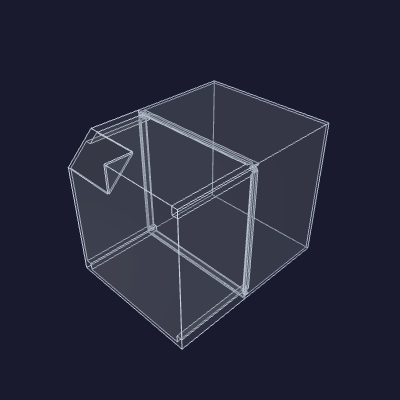
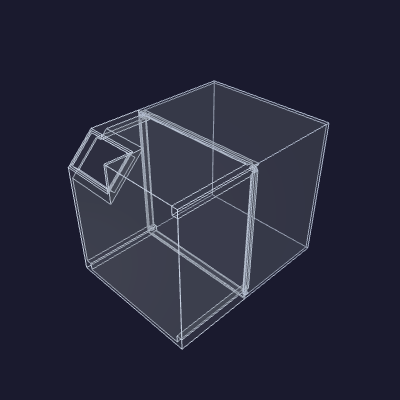
enclosure: cut the display into the facet; seat the display in the assembly
Turn the 45° display facet into a real housing for the Waveshare 4.3B:

- Facet wall grown from one wall to 18 mm (the display's overall depth): the
  cavity is held that far back behind the facet plane instead of one wall.
- Bezel counterbore on the user face: 112.5 x 75 x 1 mm shallow recess (the
  bezel sits flush; the 1 mm ledge = 112.5x75 minus the 106x69 PCB hole).
- PCB body through-hole: 106 x 69 down the full facet thickness, which also
  clears the corner-rib material sitting behind the facet in its path.

The facet's outer 45° surface is unchanged (still 118.5 x 81). Single solid
each half, front ∩ back = 0, both fit the bed.

Assembly: the display reference STEP is seated in the housing — rotated -45°
about X so its -Y screen faces the facet normal, then its screen-face center
(the STEP origin) moved onto the facet center. Per request, contents are left
as-is; the display may overlap a rib / packed parts (deliberate, to be resolved
later).

Changed region(s): [[0.18, 0.3, 0.36, 0.51]]

diff --git a/hardware/printed-parts/enclosure/enclosure/enclosure.py b/hardware/printed-parts/enclosure/enclosure/enclosure.py
@@ -61,6 +61,13 @@ display_facet_buffer = 3.0
 display_facet_x = display_bezel_x + 2 * display_facet_buffer          # [118.5 mm](DISPLAY_FACET_X)
 display_facet_slope = display_bezel_slope + 2 * display_facet_buffer  # [81 mm](DISPLAY_FACET_SLOPE)
 display_facet_angle_deg = 45.0
+# The facet is a display housing this deep (the wall behind it, set to the
+# display's overall depth) with the display let into it: a shallow bezel
+# counterbore on the user face and a PCB through-hole down the full thickness.
+display_facet_thickness = 18.0   # facet wall depth = display envelope depth
+display_bezel_depth = 1.0        # bezel counterbore depth, user face
+display_pcb_x = 106.0            # PCB body through-hole, lateral (X)
+display_pcb_slope = 69.0         # PCB body through-hole, up the 45° slope
 
 # Split + boss parameters — every dimension sized to its function, nothing
 # inherited from the faucet. The seam is a Y plane; the front half's full-wall
@@ -170,13 +177,35 @@ def _shell_with_facet(inner, outer):
     inner_box = _ybox(ix0, ix1, iy0, iy1, iz0, iz1)
     outer_chamfered = _ybox(ox0, ox1, oy0, oy1, oz0, oz1).cut(_facet_wedge(outer))
 
-    back_origin = (origin[0] - wall * normal[0],
-                   origin[1] - wall * normal[1],
-                   origin[2] - wall * normal[2])
+    back_origin = (origin[0] - display_facet_thickness * normal[0],
+                   origin[1] - display_facet_thickness * normal[1],
+                   origin[2] - display_facet_thickness * normal[2])
     keepout = _halfspace(back_origin, normal, extent).intersect(_facet_x_slab(outer, extent))
     inner_clipped = inner_box.cut(keepout)
 
     return cq.Workplane(obj=outer_chamfered.cut(inner_clipped))
+
+
+def _display_cuts(outer):
+    """The display let into the facet: a shallow bezel counterbore on the user
+    face and a PCB through-hole down the full facet thickness — both rectangles
+    centered on the facet, cut along its 45° normal. (Starts one mm proud of the
+    face for a clean break; the PCB hole runs a hair past the back into the
+    cavity.)"""
+    a, normal, origin, dy, dz = _facet_geom(outer)
+    center = (outer[0] + display_facet_x / 2.0, origin[1], origin[2])
+    plane = cq.Plane(origin=cq.Vector(*center), xDir=cq.Vector(1, 0, 0), normal=cq.Vector(*normal))
+    bezel = (
+        cq.Workplane(plane).workplane(offset=1.0)
+        .rect(display_bezel_x, display_bezel_slope)
+        .extrude(-(display_bezel_depth + 1.0)).val()
+    )
+    pcb = (
+        cq.Workplane(plane).workplane(offset=1.0)
+        .rect(display_pcb_x, display_pcb_slope)
+        .extrude(-(display_facet_thickness + 2.0)).val()
+    )
+    return bezel.fuse(pcb)
 
 
 # --- split joint: telescoping lip + X-axis corner cross-pins ----------------
@@ -317,6 +346,9 @@ def build_front_half():
         front = front.fuse(_front_pod(x_in, x_ext, sx, z_boss, sz, y_joint, inner))
     # The full-depth pods can poke into the display facet; trim them to its plane.
     front = front.cut(_facet_wedge(outer))
+    # Let the display into the facet (bezel counterbore + PCB through-hole); this
+    # also clears whatever rib/wall material sits behind the facet in its path.
+    front = front.cut(_display_cuts(outer))
     for x_in, x_ext, sx, z_boss, _sz in _bosses(inner):
         front = front.cut(_front_cuts(x_in, x_ext, sx, z_boss, yb, y_joint))
     return cq.Workplane(obj=front)

diff --git a/hardware/printed-parts/enclosure/enclosure-assembly/enclosure_assembly.py b/hardware/printed-parts/enclosure/enclosure-assembly/enclosure_assembly.py
@@ -21,10 +21,26 @@ from docgen import substitute_py_comments
 import _contents as contents
 
 _ENCLOSURE_DIR = _repo / "hardware" / "printed-parts" / "enclosure" / "enclosure"
+sys.path.insert(0, str(_ENCLOSURE_DIR))
+import enclosure  # facet geometry, to seat the display in the housing
+
 FRONT_STEP = _ENCLOSURE_DIR / "enclosure-front.step"
 BACK_STEP = _ENCLOSURE_DIR / "enclosure-back.step"
+DISPLAY_STEP = _repo / "hardware" / "reference" / "waveshare-43b-display" / "waveshare-43b-display.step"
 FRONT_COLOR = cq.Color(0.85, 0.92, 1.00, 0.22)  # transparent PETG, front half
 BACK_COLOR = cq.Color(0.80, 0.88, 0.98, 0.22)   # transparent PETG, back half
+DISPLAY_COLOR = cq.Color(0.10, 0.10, 0.12)      # the Waveshare 4.3B reference
+
+
+def _placed_display():
+    """The display reference seated in the facet housing: rotated −45° about X
+    so its −Y screen faces the facet normal, then its screen-face center (the
+    STEP origin) moved onto the facet center."""
+    _i, outer, _yj, _cf = enclosure._dims()
+    _a, _n, origin, _dy, _dz = enclosure._facet_geom(outer)
+    facet_center = (outer[0] + enclosure.display_facet_x / 2.0, origin[1], origin[2])
+    disp = cq.importers.importStep(str(DISPLAY_STEP)).val()
+    return disp.rotate((0, 0, 0), (1, 0, 0), -45.0).translate(facet_center)
 
 
 def build():
@@ -37,6 +53,7 @@ def build():
     assy.add(back, name="enclosure_back", color=BACK_COLOR)
     for name, (shape, color) in placed.items():
         assy.add(shape, name=name, color=color)
+    assy.add(_placed_display(), name="display", color=DISPLAY_COLOR)
     return assy
 
 

diff --git a/hardware/printed-parts/enclosure/enclosure/README.md b/hardware/printed-parts/enclosure/enclosure/README.md
@@ -38,15 +38,20 @@ at build time). Each printed half fits the H2C left-nozzle build envelope
 (325 × 320 × 320 mm) even though the whole enclosure does not — that is the
 point of the split.
 
-## Display facet
+## Display housing
 
-A flat 45° **solid** surface is chamfered into the top-front-left corner for the
-[Waveshare ESP32-S3-Touch-LCD-4.3B config display](/hardware/reference/waveshare-43b-display/)
-(bezel 112.5 × 75 mm), facing up-and-forward (−Y front / +Z up) toward the
-standing user, flush to the −X (left) edge so the whole top-front-left corner
-comes off. It is a wall-thick mounting surface sized to the bezel + a 3 mm
-buffer all around — [118.5 mm](DISPLAY_FACET_X) (X, lateral) ×
-[81 mm](DISPLAY_FACET_SLOPE) (along the 45° slope).
+A flat 45° facet is chamfered into the top-front-left corner for the
+[Waveshare ESP32-S3-Touch-LCD-4.3B config display](/hardware/reference/waveshare-43b-display/),
+facing up-and-forward (−Y front / +Z up) toward the standing user, flush to the
+−X (left) edge so the whole top-front-left corner comes off. The facet surface
+is sized to the bezel + a 3 mm buffer all around — [118.5 mm](DISPLAY_FACET_X)
+(X, lateral) × [81 mm](DISPLAY_FACET_SLOPE) (along the 45° slope).
+
+The facet is thickened into an 18 mm housing (the display's overall depth) with
+the display let in: a shallow 112.5 × 75 × 1 mm counterbore on the user face
+recesses the bezel, and a 106 × 69 mm hole through the full thickness passes the
+PCB body. Where the corner ribs sit behind the facet, the PCB hole clears them.
+The display reference is seated in the housing in `../enclosure-assembly/`.
 
 ## Regenerate
 
